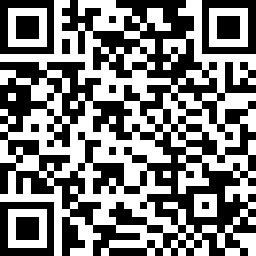
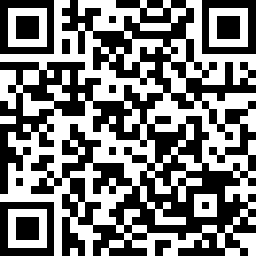
switch to non multisig

diff --git a/index.html b/index.html
@@ -106,7 +106,7 @@
         <section class="project">
             <h2>donate&nbsp;&nbsp;&nbsp;</h2>
             <h3>
-                <a href="bitcoincash:pp0cdnhd34ffrjkurvhawslreea2vwhjg5ae0q7348">bitcoincash:pp0cdnhd34ffrjkurvhawslreea2vwhjg5ae0q7348</a><br>
+                <a href="bitcoincash:qpygaungmfry8xzxphj4pw24kk5l9vfxlyhy0z36al">bitcoincash:qpygaungmfry8xzxphj4pw24kk5l9vfxlyhy0z36al</a><br>
                 <a><img style="padding:2rem; background-color:#fff" src="donateqr.png"></a><br>
                 <a href="https://www.patreon.com/fountainheadcash"><img src="become_a_patron_button@2x.png"></a>
             </h3>
